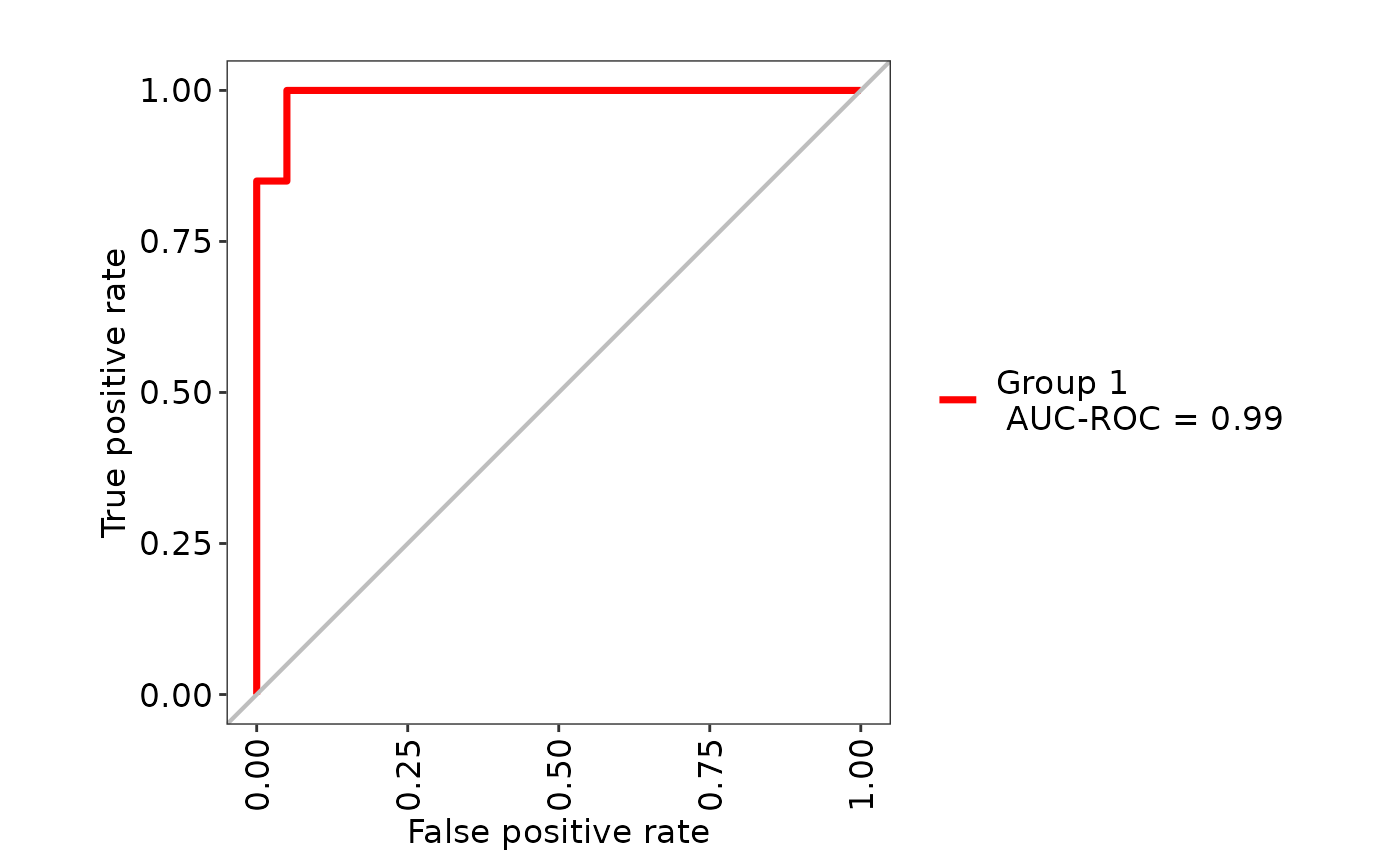
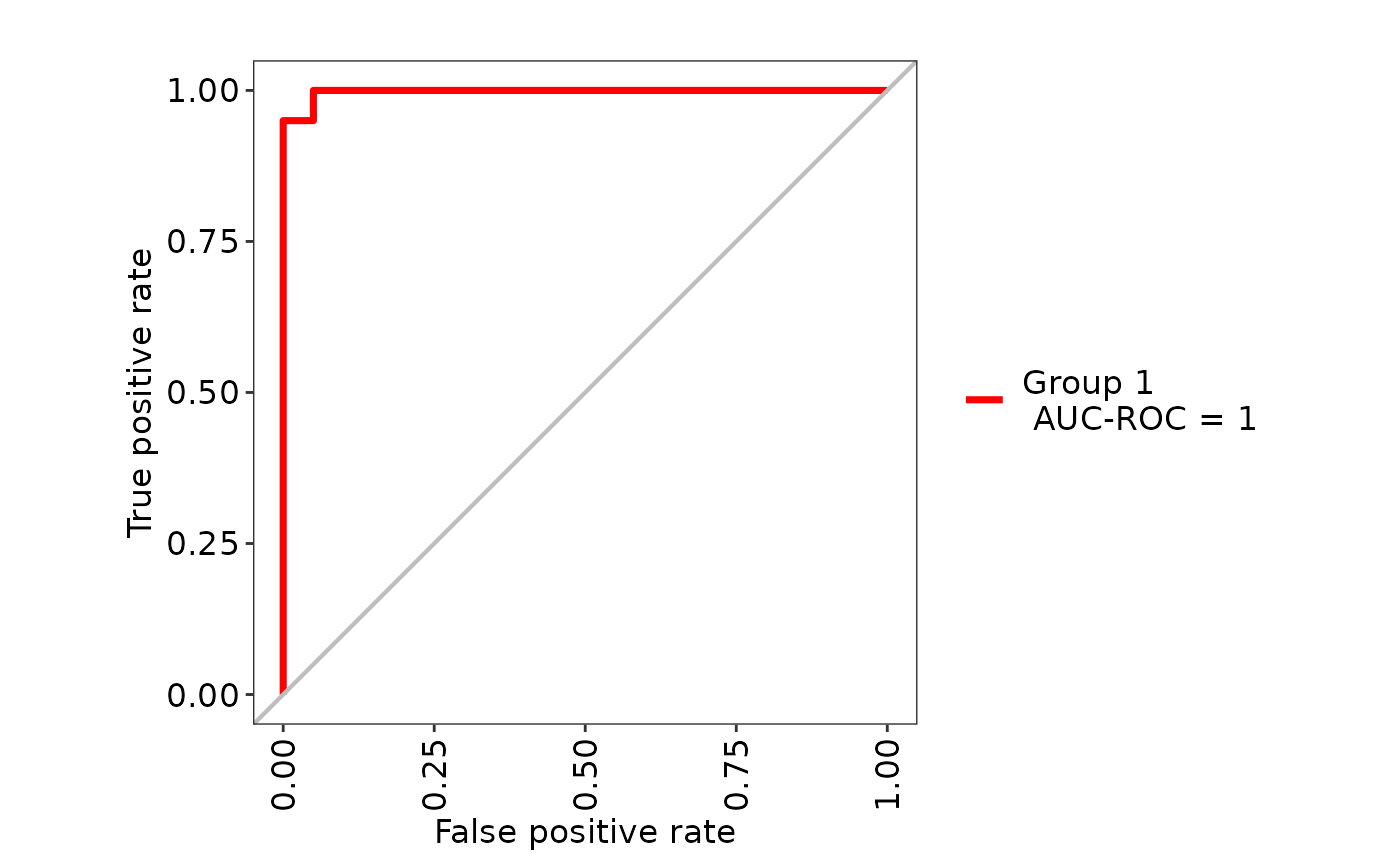
Deploying to gh-pages from @ labinfo-lncc/mnmer@e4af7d4207dac50b7bf7279d1e03f56dd0997c53 🚀

diff --git a/articles/vignette.html b/articles/vignette.html
@@ -316,7 +316,7 @@ is used to plot performance metrics.</p>
 <pre><code><span><span class="co">## ***Performance Metrics***</span></span></code></pre>
 <p><img src="vignette_files/figure-html/unnamed-chunk-6-1.png" width="700"><img src="vignette_files/figure-html/unnamed-chunk-6-2.png" width="700"><img src="vignette_files/figure-html/unnamed-chunk-6-3.png" width="700"></p>
 <pre><code><span><span class="co">## Group 1 Optimal Informedness = 0.95</span></span></code></pre>
-<pre><code><span><span class="co">## Group 1 AUC-ROC = 0.99</span></span></code></pre>
+<pre><code><span><span class="co">## Group 1 AUC-ROC = 1</span></span></code></pre>
 <p><img src="vignette_files/figure-html/unnamed-chunk-6-4.png" width="700"></p>
 <pre><code><span><span class="co">## R version 4.2.2 (2022-10-31)</span></span>
 <span><span class="co">## Platform: x86_64-pc-linux-gnu (64-bit)</span></span>
@@ -338,14 +338,14 @@ is used to plot performance metrics.</p>
 <span><span class="co">## </span></span>
 <span><span class="co">## other attached packages:</span></span>
 <span><span class="co">##  [1] caret_6.0-93        lattice_0.20-45     ggplot2_3.4.0      </span></span>
-<span><span class="co">##  [4] mnmer_0.99.1        Biostrings_2.66.0   GenomeInfoDb_1.34.6</span></span>
+<span><span class="co">##  [4] mnmer_0.99.1        Biostrings_2.66.0   GenomeInfoDb_1.34.9</span></span>
 <span><span class="co">##  [7] XVector_0.38.0      IRanges_2.32.0      S4Vectors_0.36.1   </span></span>
 <span><span class="co">## [10] BiocGenerics_0.44.0 BiocStyle_2.26.0   </span></span>
 <span><span class="co">## </span></span>
 <span><span class="co">## loaded via a namespace (and not attached):</span></span>
 <span><span class="co">##  [1] MLeval_0.3             nlme_3.1-160           bitops_1.0-7          </span></span>
-<span><span class="co">##  [4] fs_1.6.0               lubridate_1.9.0        rprojroot_2.0.3       </span></span>
-<span><span class="co">##  [7] tools_4.2.2            bslib_0.4.2            utf8_1.2.2            </span></span>
+<span><span class="co">##  [4] fs_1.6.1               lubridate_1.9.1        rprojroot_2.0.3       </span></span>
+<span><span class="co">##  [7] tools_4.2.2            bslib_0.4.2            utf8_1.2.3            </span></span>
 <span><span class="co">## [10] R6_2.5.1               rpart_4.1.19           colorspace_2.1-0      </span></span>
 <span><span class="co">## [13] nnet_7.3-18            withr_2.5.0            tidyselect_1.2.0      </span></span>
 <span><span class="co">## [16] compiler_4.2.2         textshaping_0.3.6      cli_3.6.0             </span></span>
@@ -356,19 +356,19 @@ is used to plot performance metrics.</p>
 <span><span class="co">## [31] htmltools_0.5.4        parallelly_1.34.0      highr_0.10            </span></span>
 <span><span class="co">## [34] fastmap_1.1.0          rlang_1.0.6            farver_2.1.1          </span></span>
 <span><span class="co">## [37] jquerylib_0.1.4        generics_0.1.3         jsonlite_1.8.4        </span></span>
-<span><span class="co">## [40] ModelMetrics_1.2.2.2   dplyr_1.0.10           RCurl_1.98-1.9        </span></span>
+<span><span class="co">## [40] ModelMetrics_1.2.2.2   dplyr_1.1.0            RCurl_1.98-1.10       </span></span>
 <span><span class="co">## [43] magrittr_2.0.3         GenomeInfoDbData_1.2.9 Matrix_1.5-1          </span></span>
 <span><span class="co">## [46] Rcpp_1.0.10            munsell_0.5.0          fansi_1.0.4           </span></span>
 <span><span class="co">## [49] lifecycle_1.0.3        pROC_1.18.0            stringi_1.7.12        </span></span>
 <span><span class="co">## [52] yaml_2.3.7             MASS_7.3-58.1          zlibbioc_1.44.0       </span></span>
 <span><span class="co">## [55] plyr_1.8.8             recipes_1.0.4          grid_4.2.2            </span></span>
 <span><span class="co">## [58] parallel_4.2.2         listenv_0.9.0          crayon_1.5.2          </span></span>
-<span><span class="co">## [61] splines_4.2.2          knitr_1.41             pillar_1.8.1          </span></span>
+<span><span class="co">## [61] splines_4.2.2          knitr_1.42             pillar_1.8.1          </span></span>
 <span><span class="co">## [64] future.apply_1.10.0    reshape2_1.4.4         codetools_0.2-18      </span></span>
 <span><span class="co">## [67] glue_1.6.2             evaluate_0.20          data.table_1.14.6     </span></span>
 <span><span class="co">## [70] BiocManager_1.30.19    vctrs_0.5.2            foreach_1.5.2         </span></span>
-<span><span class="co">## [73] gtable_0.3.1           purrr_1.0.1            future_1.30.0         </span></span>
-<span><span class="co">## [76] cachem_1.0.6           xfun_0.36              gower_1.0.1           </span></span>
+<span><span class="co">## [73] gtable_0.3.1           purrr_1.0.1            future_1.31.0         </span></span>
+<span><span class="co">## [76] cachem_1.0.6           xfun_0.37              gower_1.0.1           </span></span>
 <span><span class="co">## [79] prodlim_2019.11.13     ragg_1.2.5             class_7.3-20          </span></span>
 <span><span class="co">## [82] survival_3.4-0         timeDate_4022.108      tibble_3.1.8          </span></span>
 <span><span class="co">## [85] iterators_1.0.14       memoise_2.0.1          hardhat_1.2.0         </span></span>
